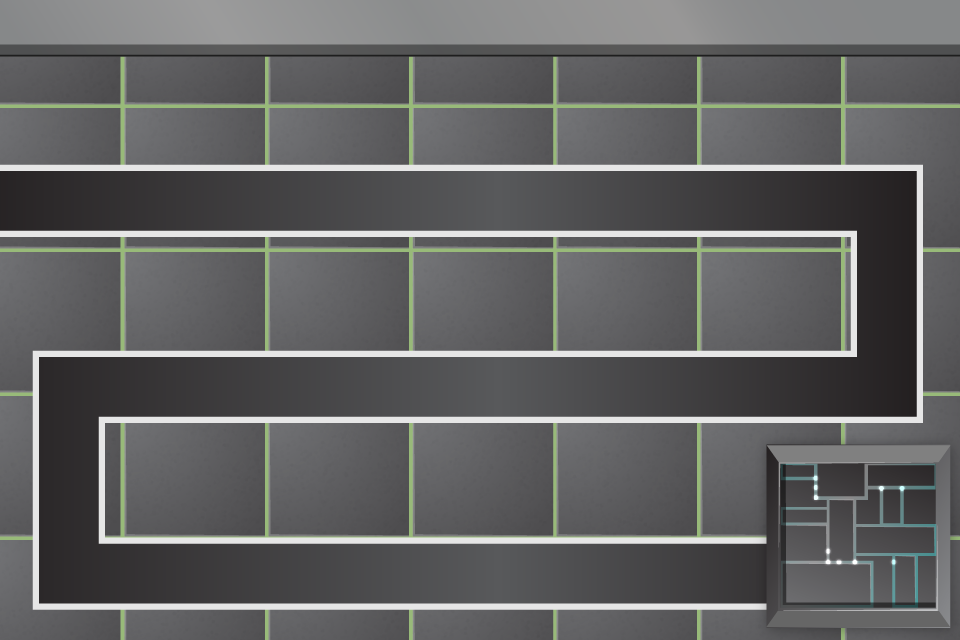
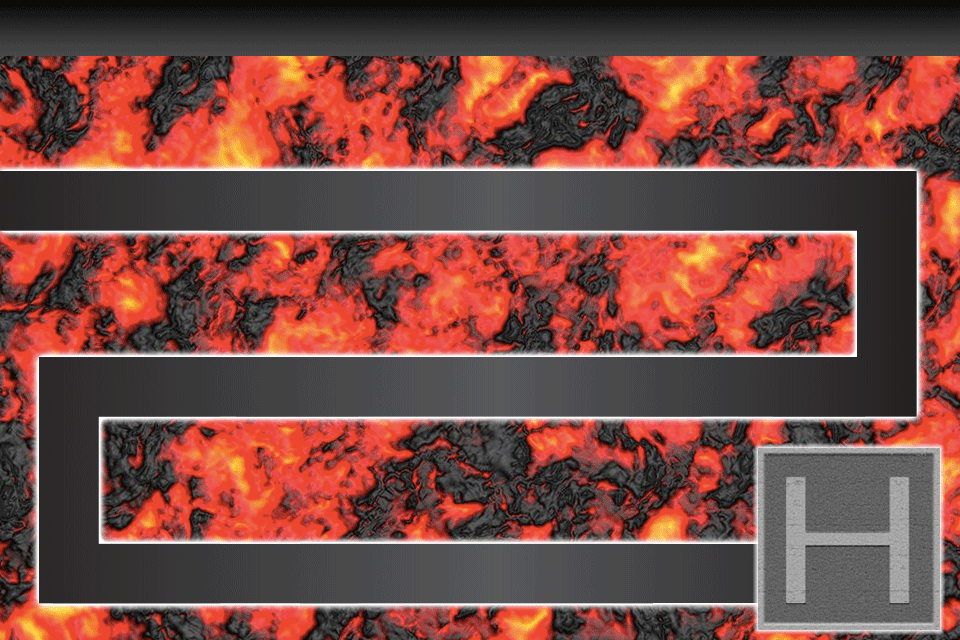
graphic change, maintower can be disabled, add sensor libraries

diff --git a/Tower Of Salon/Tower Of Salon/MainTower.m b/Tower Of Salon/Tower Of Salon/MainTower.m
@@ -26,34 +26,45 @@ const float MAIN_TOWER_HEALTH_BAR_HEIGHT = 4.0f;
         theGame = _game;
         maxHP = 1000;
         atkRange = 460;
+        upgradeAtk = 0;
+        upgradeSpeed = 0;
+        upgradeHP = 0;
+        canAttack = false;
         
         // receivable vars
-        atkType = 1;
-        upgrade = 0;
+        atkType = 0;
+        int AtkUpgraded = 0;
+        int SpdUpgraded = 0;
+        int HPUpgraded = 0;
         
         switch (atkType) {
             case 1: // arrow
                 atkPower = 300;
                 atkSpeed = 2;
+                mySprite = [CCSprite spriteWithImageNamed:@"maintowerarrow.png"];
                 break;
             case 2: // laser
                 atkPower = 3;
                 atkSpeed = .05;
+                mySprite = [CCSprite spriteWithImageNamed:@"maintowerlaser.png"];
                 break;
             default: // bullet
                 atkPower = 120;
                 atkSpeed = 1;
+                mySprite = [CCSprite spriteWithImageNamed:@"maintowerbullet.png"];
                 break;
         }
         
-        currentHP = maxHP;
+        while (upgradeAtk<AtkUpgraded) [self upgradeTowerAtk];
+        while (upgradeSpeed<SpdUpgraded) [self upgradeTowerSpeed];
+        while (upgradeHP<HPUpgraded) [self upgradeTowerHP];
         
+        currentHP = maxHP;
         
         healthBar = [[CCDrawNode alloc] init];
         healthBar.contentSize = CGSizeMake(MAIN_TOWER_HEALTH_BAR_WIDTH, MAIN_TOWER_HEALTH_BAR_HEIGHT);
         [self addChild:healthBar];
         
-        mySprite = [CCSprite spriteWithImageNamed:@"tower.png"];
         [self addChild:mySprite];
         [mySprite setPosition:location];
         [theGame addChild:self];
@@ -91,6 +102,7 @@ const float MAIN_TOWER_HEALTH_BAR_HEIGHT = 4.0f;
 }
 -(void)chosenEnemyForAttack:(Enemy *)enemy {
     chosenEnemy = nil;
+    if (!canAttack) return;
     chosenEnemy = enemy;
     [self attackEnemy];
     [enemy getAttacked:self];
@@ -102,7 +114,7 @@ const float MAIN_TOWER_HEALTH_BAR_HEIGHT = 4.0f;
         bullet.rotation = CC_RADIANS_TO_DEGREES(atan2(normalized.y, -normalized.x))-90;
         [theGame addChild:bullet];
         [bullet setPosition:mySprite.position];
-        [bullet runAction:[CCActionSequence actions:[CCActionMoveTo actionWithDuration:0.25 position:chosenEnemy.mySprite.position],[CCActionCallFunc actionWithTarget:self selector:@selector(damageEnemy)],[CCActionRemove action],nil]];
+        [bullet runAction:[CCActionSequence actions:[CCActionMoveTo actionWithDuration:0.4 position:chosenEnemy.mySprite.position],[CCActionCallFunc actionWithTarget:self selector:@selector(damageEnemy)],[CCActionRemove action],nil]];
     }else if (atkType == 2) {   //laser
         CCSprite *bullet = [CCSprite spriteWithImageNamed:@"laser.png"];
         CGPoint normalized = ccpNormalize(ccp(chosenEnemy.mySprite.position.x-mySprite.position.x,chosenEnemy.mySprite.position.y-mySprite.position.y));
@@ -114,7 +126,7 @@ const float MAIN_TOWER_HEALTH_BAR_HEIGHT = 4.0f;
         CCSprite *bullet = [CCSprite spriteWithImageNamed:@"bullet.png"];
         [theGame addChild:bullet];
         [bullet setPosition:mySprite.position];
-        [bullet runAction:[CCActionSequence actions:[CCActionMoveTo actionWithDuration:0.2 position:chosenEnemy.mySprite.position],[CCActionCallFunc actionWithTarget:self selector:@selector(damageEnemy)],[CCActionRemove action],nil]];
+        [bullet runAction:[CCActionSequence actions:[CCActionMoveTo actionWithDuration:0.25 position:chosenEnemy.mySprite.position],[CCActionCallFunc actionWithTarget:self selector:@selector(damageEnemy)],[CCActionRemove action],nil]];
     }
 }
 //-(void)removeBullet:(CCSprite *)bullet {
@@ -137,16 +149,26 @@ const float MAIN_TOWER_HEALTH_BAR_HEIGHT = 4.0f;
     [self unschedule:@selector(shootWeapon)];
 }
 
--(BOOL)isUpgradable {
-    if(upgrade > 9) {
-        return NO;
-    }
-    return YES;
+-(void)upgradeTowerAtk {
+    atkPower *= 1.25;
+    upgradeAtk++;
 }
 
--(void)upgradeTower {
-    atkPower += 1+(atkPower*.3f);
-    maxHP += 100;
+-(void)upgradeTowerHP {
+    maxHP *= 1.5;
+    upgradeHP++;
+}
+
+-(void)upgradeTowerSpeed {
+    atkSpeed *= 0.9;
+    upgradeSpeed++;
+}
+
+-(void)disableAttack {
+    canAttack = false;
+}
+-(void)enableAttack {
+    canAttack = true;
 }
 
 -(void)drawHealthBar:(CCDrawNode *)node hp:(int)hp {

diff --git a/Tower Of Salon/Tower Of Salon/Classes/HelloWorldScene.m b/Tower Of Salon/Tower Of Salon/Classes/HelloWorldScene.m
@@ -23,6 +23,7 @@
 @implementation HelloWorldScene
 {
     CCSprite *_sprite;
+    MainTower *mtower;
 }
 @synthesize towers;
 @synthesize waypoints;
@@ -66,7 +67,6 @@
     enemies = [[NSMutableArray alloc] init];
     towers = [[NSMutableArray alloc] init];
     
-    [self loadWave:10];
     
     ui_wave_lbl = [CCLabelBMFont labelWithString:[NSString stringWithFormat:@"WAVE: %d",wave] fntFile:@"font_red_14.fnt"];
     [self addChild:ui_wave_lbl z:10];
@@ -86,10 +86,12 @@
     
     CCSprite *mtowerBase = [CCSprite spriteWithImageNamed:@"open_spot.png"];
     [self addChild:mtowerBase];
-    [mtowerBase setPosition:ccp(430, 50)];
+    [mtowerBase setPosition:ccp(424, 50)];
     
-    MainTower *mtower = [MainTower nodeWithTheGame:self location:mtowerBase.position];
+    mtower = [MainTower nodeWithTheGame:self location:mtowerBase.position];
     mtowerBase.userObject = (__bridge id)((__bridge void *)(mtower));
+    
+    [self loadWave:10];
     
     // done
 	return self;
@@ -168,7 +170,7 @@
 //    }
     
     float time = 3;
-    bool isBossOut = false;
+    isBossOut = false;
     for(int i=0;i<NumOfEnemy+arc4random()%(wave+1);i++) {
         int temp = arc4random()%100;
         if(temp > 95) {
@@ -204,6 +206,9 @@
     
     wave++;
     [ui_wave_lbl setString:[NSString stringWithFormat:@"WAVE: %d",wave]];
+    
+    if (isBossOut) [mtower enableAttack];
+    else [mtower disableAttack];
     
     return YES;
 }

diff --git a/Tower Of Salon/Tower Of Salon/MainTower.h b/Tower Of Salon/Tower Of Salon/MainTower.h
@@ -17,16 +17,19 @@
 @class HelloWorldScene, Enemy;
 
 @interface MainTower : CCNode {
-    int atkRange;
     int atkPower;
     float atkSpeed;
     int maxHP;
-    int currentHP;
-    int upgrade;
-    BOOL isAttacking;
     
     int atkType; // 0 - bullet, 1 - arrow, 2 - laser
+    int upgradeAtk;
+    int upgradeSpeed;
+    int upgradeHP;
     
+    int atkRange;
+    int currentHP;
+    BOOL isAttacking;
+    BOOL canAttack;
     Enemy *chosenEnemy;
     CCDrawNode *healthBar;
 }
@@ -37,7 +40,10 @@
 +(id)nodeWithTheGame:(HelloWorldScene *)_game location:(CGPoint) location;
 -(id)initWithTheGame:(HelloWorldScene *)_game location:(CGPoint) location;
 -(void)targetKilled;
--(void)upgradeTower;
--(BOOL)isUpgradable;
+-(void)disableAttack;
+-(void)enableAttack;
+-(void)upgradeTowerAtk;
+-(void)upgradeTowerSpeed;
+-(void)upgradeTowerHP;
 
 @end

diff --git a/Tower Of Salon/Tower Of Salon/Classes/HelloWorldScene.h b/Tower Of Salon/Tower Of Salon/Classes/HelloWorldScene.h
@@ -11,7 +11,7 @@
 #import <GameKit/GameKit.h>
 #import "cocos2d.h"
 #import "cocos2d-ui.h"
-
+#import "MainTower.h"
 
 // -----------------------------------------------------------------------
 
@@ -26,6 +26,7 @@
     int playerDiamond;
     int enemyNum;
     BOOL gameEnded;
+    BOOL isBossOut;
     CCLabelBMFont *ui_hp_lbl;
     CCLabelBMFont *ui_gold_lbl;
     CCLabelBMFont *ui_wave_lbl;

diff --git a/Tower Of Salon/Tower Of Salon/Tower.m b/Tower Of Salon/Tower Of Salon/Tower.m
@@ -116,6 +116,7 @@ const float TOWER_HEALTH_BAR_HEIGHT = 4.0f;
 -(void)upgradeTower {
     atkPower += 5;
     atkSpeed *= 0.9f;
+    atkRange *= 1.05;
     
     upgrade += 1;
     
